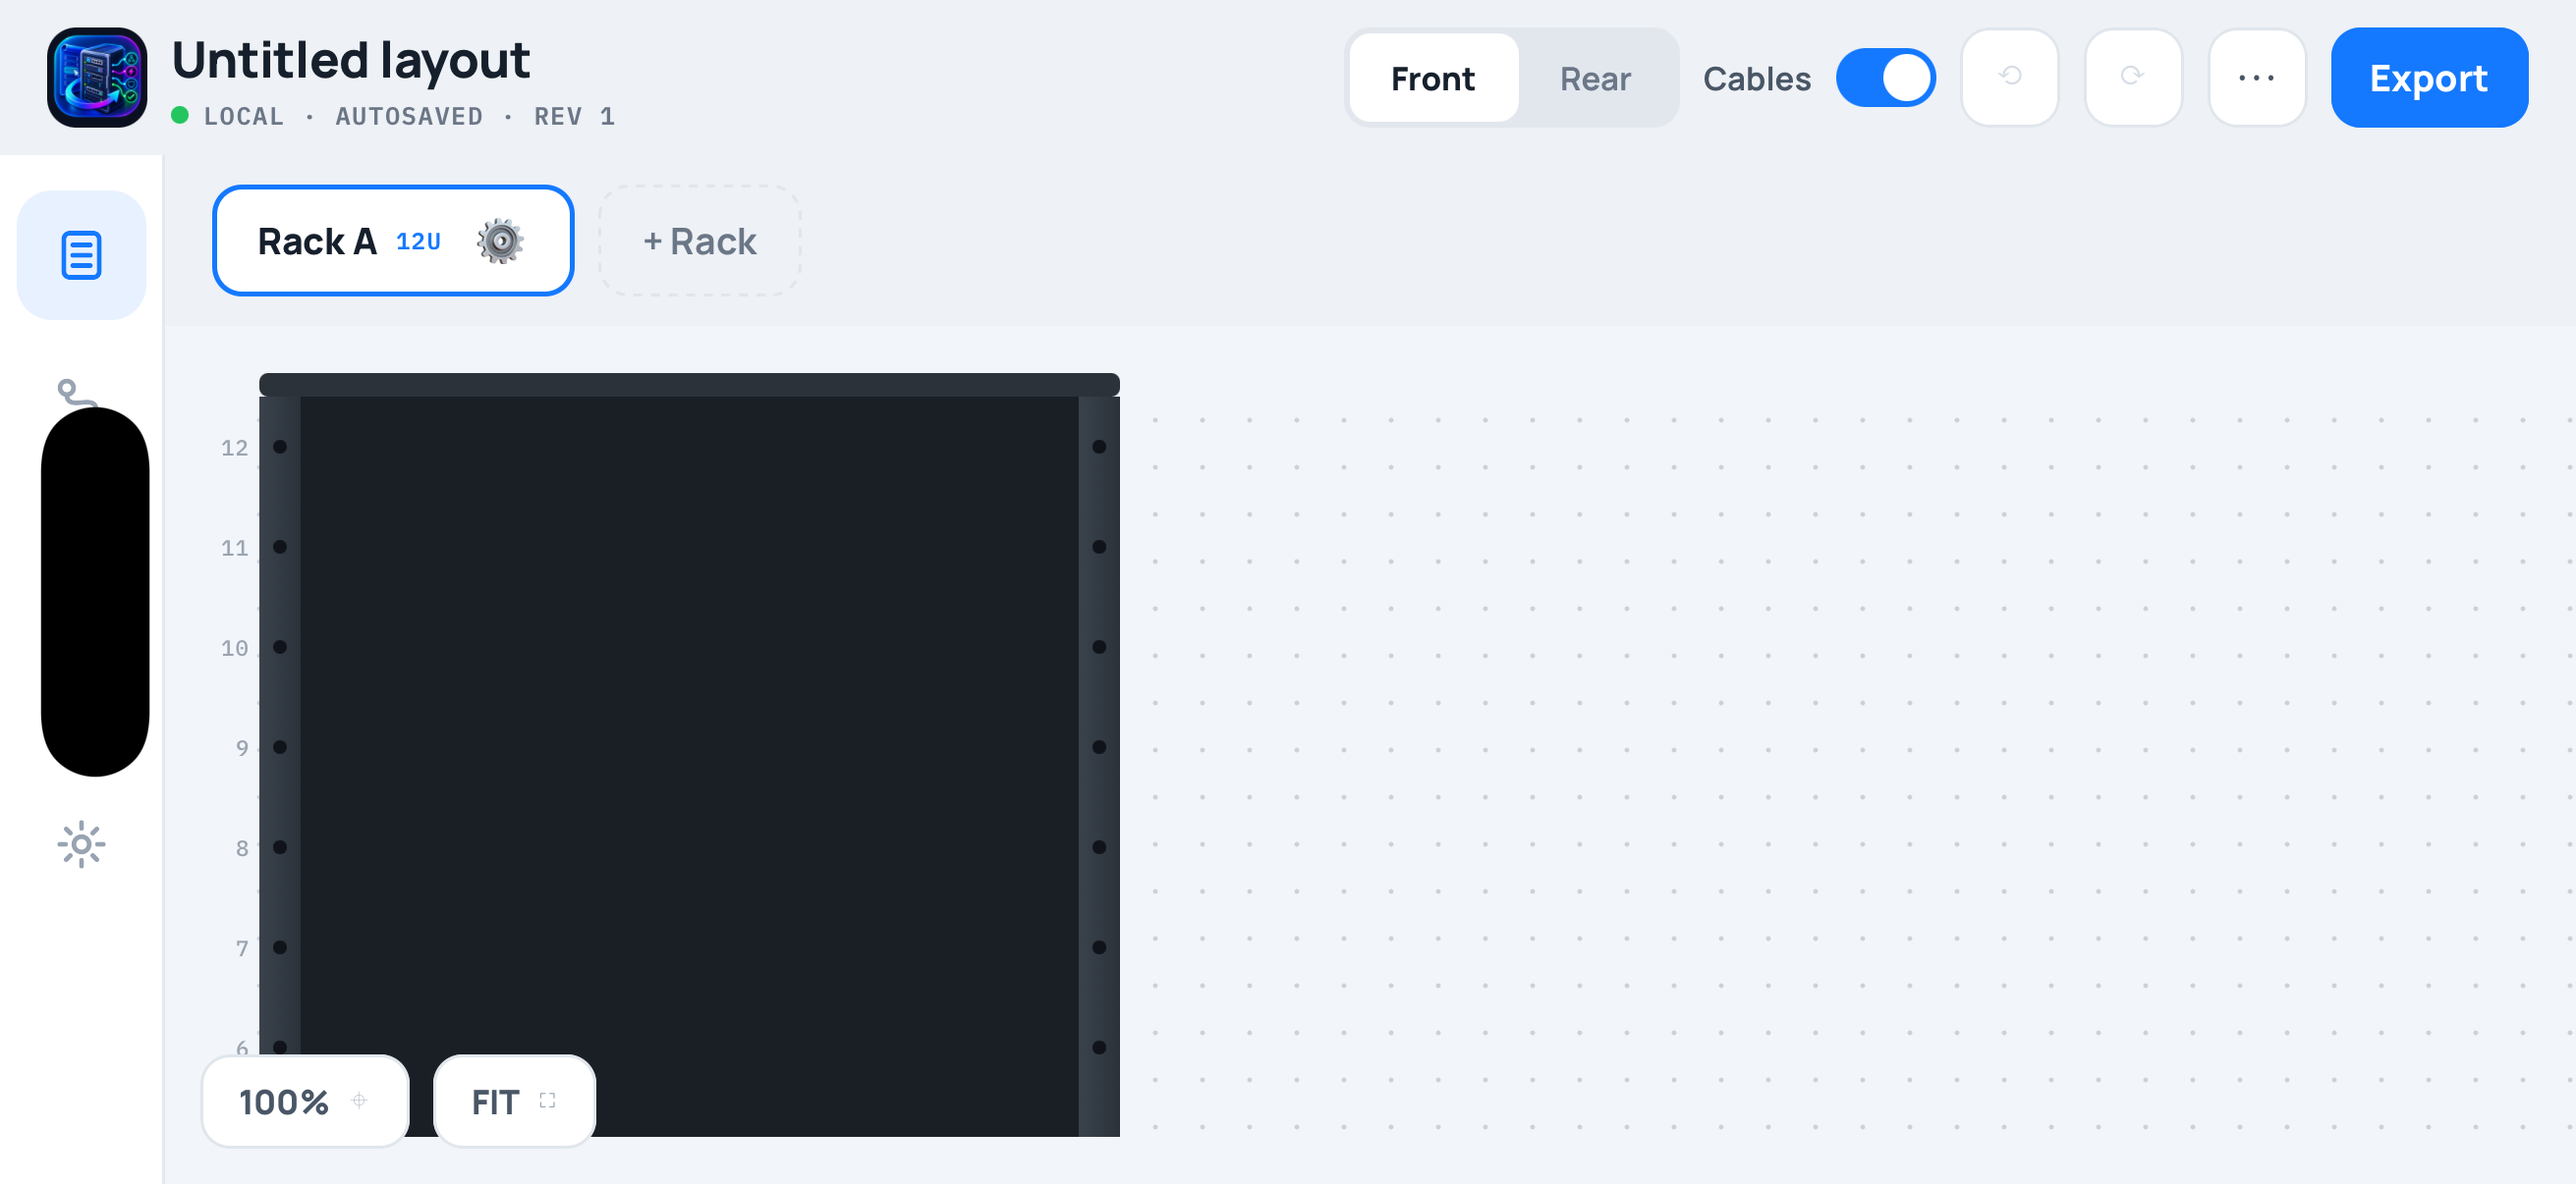
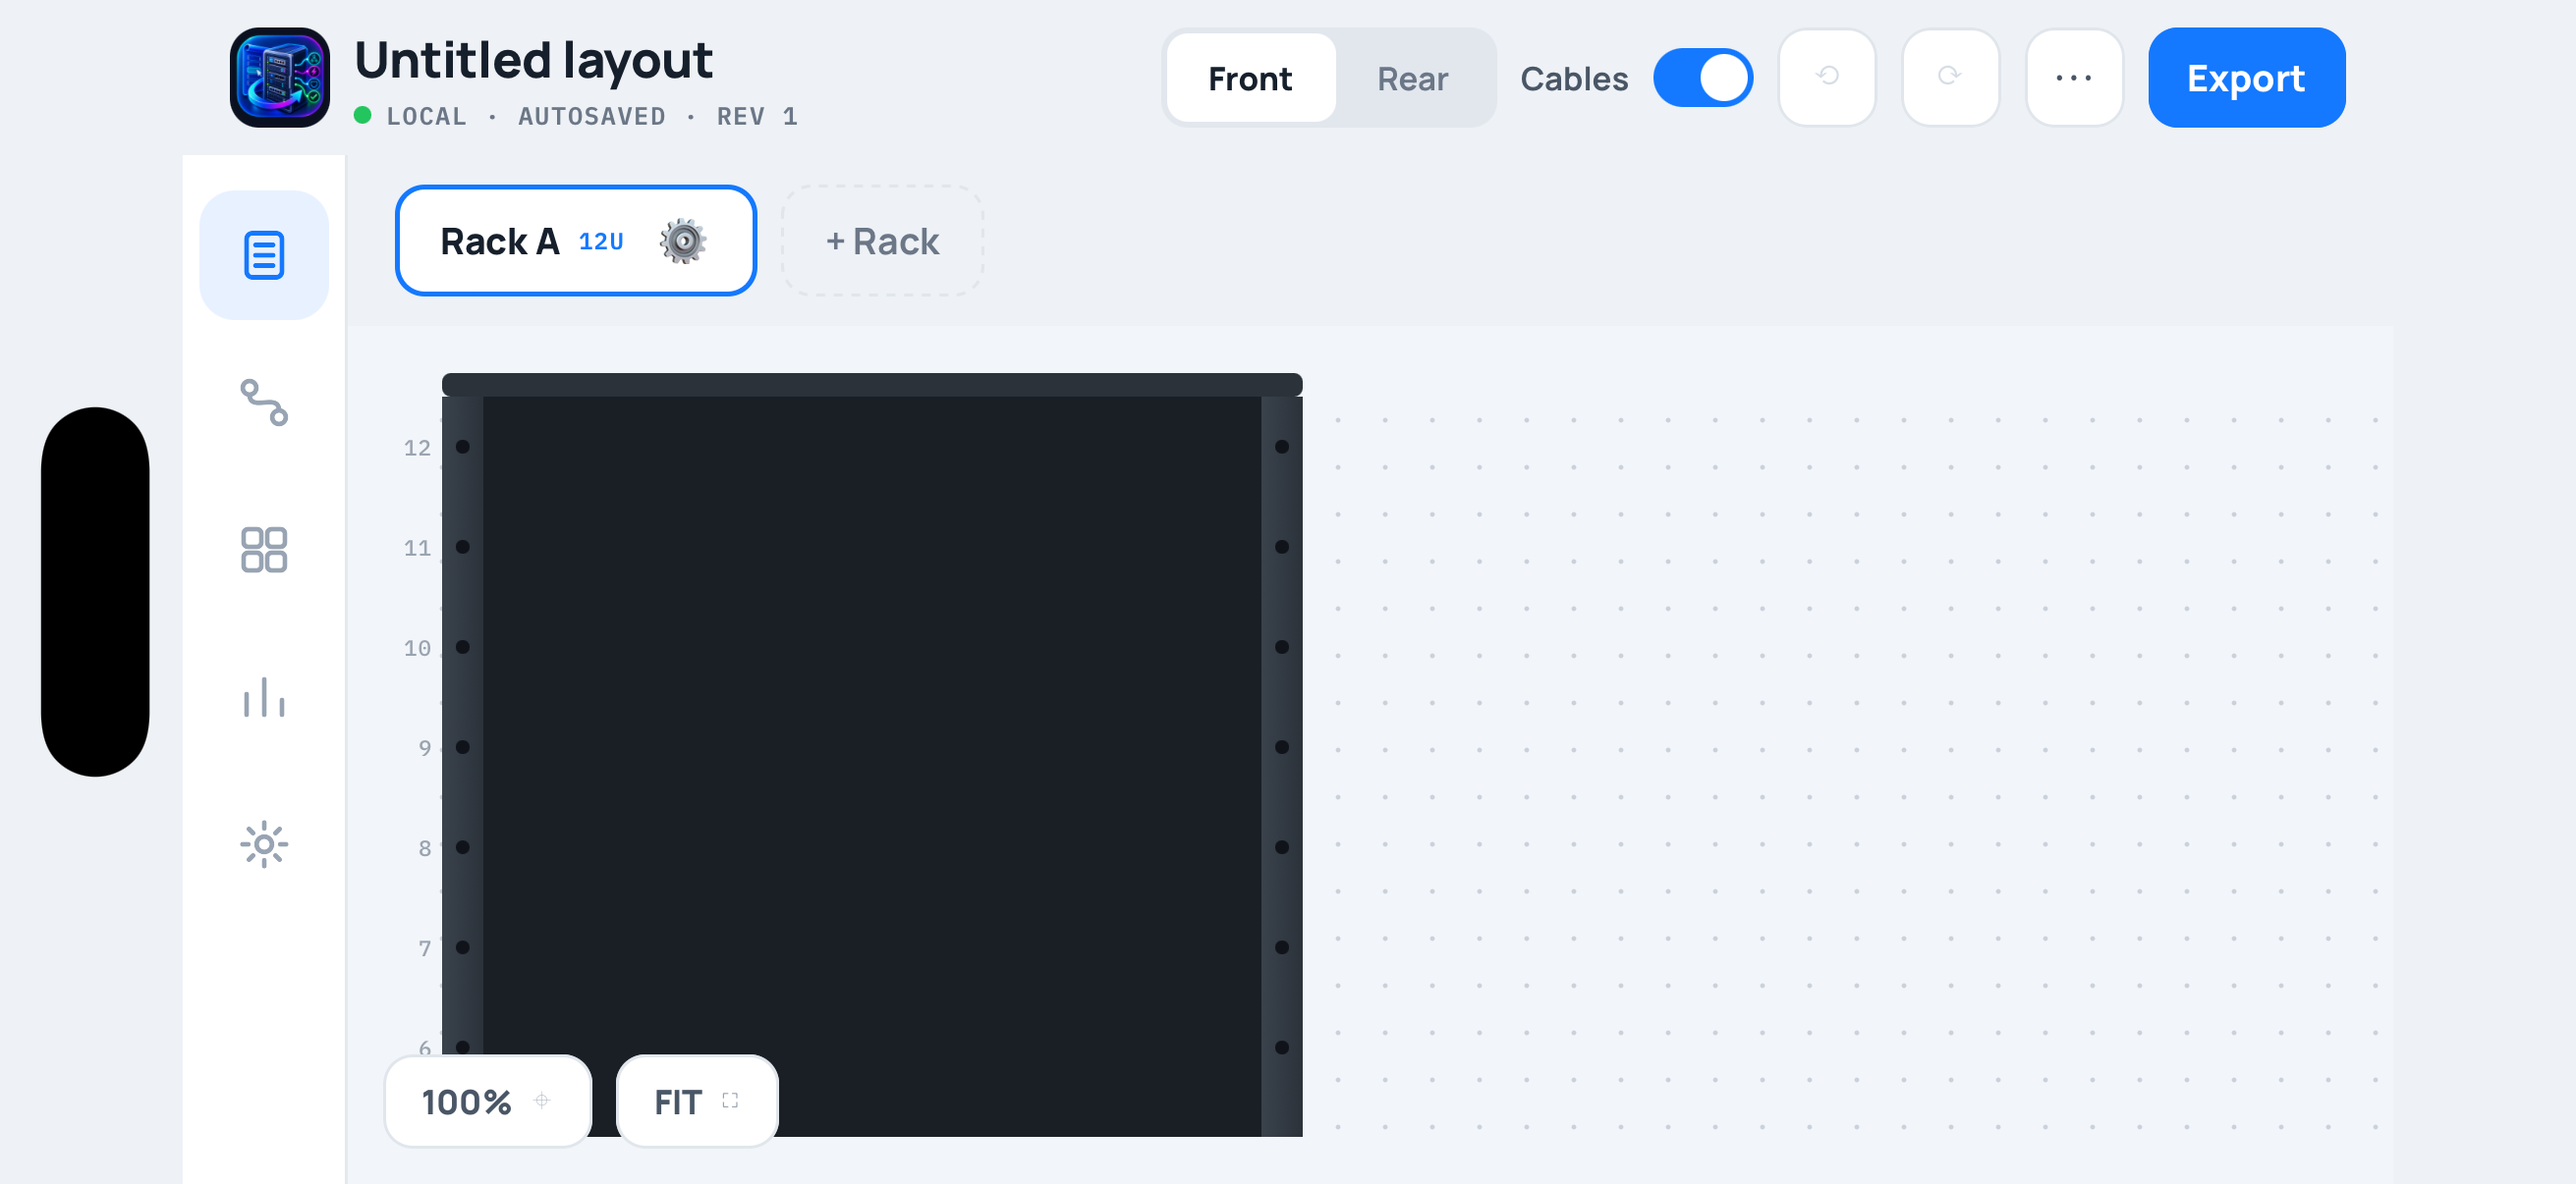
fix: tapping a port terminated the app on iPhone
The app is locked to landscape; a React Native Modal is portrait-only unless it
says otherwise. Opening one therefore killed the process outright:

  UIApplicationInvalidInterfaceOrientation: Supported orientations has no common
  orientation with the application

That is the port picker — the app's central interaction — and the inspector
sheet and the conflict dialog with it. Every modal now declares the orientation
the app actually has, and a test renders all three and checks it.

Found on the iPhone simulator. No amount of browser testing would have: on the
web a Modal is a div.

diff --git a/apps/app/test/modals.test.tsx b/apps/app/test/modals.test.tsx
@@ -1,0 +1,47 @@
+import { render, screen } from '@testing-library/react-native'
+import { Modal, Text } from 'react-native'
+import { addDevice, newDevice, newLayout, newRack } from '@planmyrack/core'
+import { BottomSheet } from '../src/ui/BottomSheet'
+import { ConflictDialog } from '../src/ui/ConflictDialog'
+import { PortPicker } from '../src/ui/PortPicker'
+import type { Layout } from '@planmyrack/core'
+
+const rack = newRack({ id: 'R', units: 12 })
+const seeded: Layout = addDevice(
+  newLayout('modals', [rack]),
+  newDevice({ id: 'd1', rackId: 'R', face: 'front', posU: 0, heightU: 1, type: 'switch' }),
+)
+const device = seeded.devices[0]!
+
+const orientationsOf = (): unknown[][] =>
+  screen.UNSAFE_getAllByType(Modal).map((m) => m.props.supportedOrientations ?? [])
+
+describe('TestModalsDeclareLandscape', () => {
+  it('every modal in the app supports the only orientation the app has', () => {
+    // an iPhone terminated the app the moment a port was tapped:
+    // "UIApplicationInvalidInterfaceOrientation: Supported orientations has no common
+    // orientation with the application". A Modal is portrait-only unless it says otherwise.
+    render(
+      <>
+        <BottomSheet title="Sheet" visible onClose={jest.fn()}>
+          <Text>body</Text>
+        </BottomSheet>
+        <ConflictDialog current={seeded} onReload={jest.fn()} onExportJson={jest.fn()} />
+        <PortPicker
+          layout={seeded}
+          device={device}
+          port={0}
+          kind="network"
+          onConnect={jest.fn()}
+          onClose={jest.fn()}
+        />
+      </>,
+    )
+
+    const found = orientationsOf()
+    expect(found).toHaveLength(3)
+    for (const orientations of found) {
+      expect(orientations).toContain('landscape')
+    }
+  })
+})

diff --git a/apps/app/src/ui/PortPicker.tsx b/apps/app/src/ui/PortPicker.tsx
@@ -3,6 +3,7 @@ import { Modal, Pressable, ScrollView, StyleSheet, Text, View } from 'react-nati
 import { DEVICE_TYPES, portCapacity, portLink, otherEnd } from '@planmyrack/core'
 import { Button, Mono, Segmented } from './primitives'
 import { TOUCH, colour, font, radius } from './theme'
+import { MODAL_ORIENTATIONS } from './modal'
 import type { CableType, Device, Layout, LinkEnd, LinkKind } from '@planmyrack/core'
 
 const CABLE_TYPES: CableType[] = ['cat5e', 'cat6', 'cat6a', 'fibre', 'dac']
@@ -47,7 +48,13 @@ export function PortPicker({
     )
 
   return (
-    <Modal visible transparent animationType="slide" onRequestClose={onClose}>
+    <Modal
+      visible
+      transparent
+      animationType="slide"
+      supportedOrientations={MODAL_ORIENTATIONS}
+      onRequestClose={onClose}
+    >
       <Pressable style={styles.backdrop} onPress={onClose} accessibilityLabel="Close" />
       <View testID="port-picker" style={styles.sheet}>
         <View style={styles.grab} />

diff --git a/apps/app/src/ui/BottomSheet.tsx b/apps/app/src/ui/BottomSheet.tsx
@@ -1,5 +1,6 @@
 import { Modal, Pressable, ScrollView, StyleSheet, Text, View } from 'react-native'
 import { TOUCH, colour, font, radius } from './theme'
+import { MODAL_ORIENTATIONS } from './modal'
 import type { ReactNode } from 'react'
 
 /** Phone-shaped panel: a sheet over the canvas with a grab handle, dismissed by tapping outside. */
@@ -17,7 +18,13 @@ export function BottomSheet({
   children: ReactNode
 }) {
   return (
-    <Modal visible={visible} transparent animationType="slide" onRequestClose={onClose}>
+    <Modal
+      visible={visible}
+      transparent
+      animationType="slide"
+      supportedOrientations={MODAL_ORIENTATIONS}
+      onRequestClose={onClose}
+    >
       <Pressable style={styles.backdrop} onPress={onClose} accessibilityLabel="Close" />
       <View testID="inspector-sheet" style={styles.sheet}>
         <View style={styles.grab} />

diff --git a/apps/app/src/ui/ConflictDialog.tsx b/apps/app/src/ui/ConflictDialog.tsx
@@ -2,6 +2,7 @@ import { Modal, StyleSheet, Text, View } from 'react-native'
 import { STALE_SAVE_MESSAGE } from '@planmyrack/storage'
 import { Button } from './primitives'
 import { colour, font, radius } from './theme'
+import { MODAL_ORIENTATIONS } from './modal'
 import type { Layout } from '@planmyrack/core'
 
 /**
@@ -20,7 +21,7 @@ export function ConflictDialog({
   if (!current) return null
 
   return (
-    <Modal visible transparent animationType="fade">
+    <Modal visible transparent animationType="fade" supportedOrientations={MODAL_ORIENTATIONS}>
       <View style={styles.backdrop}>
         <View testID="conflict-dialog" style={styles.card}>
           <Text style={styles.title}>{STALE_SAVE_MESSAGE}</Text>

diff --git a/apps/app/src/ui/modal.ts b/apps/app/src/ui/modal.ts
@@ -1,0 +1,15 @@
+import type { ModalProps } from 'react-native'
+
+/**
+ * Every Modal in the app must declare these.
+ *
+ * The app is locked to landscape. A Modal defaults to portrait-only, and iOS then throws
+ * `UIApplicationInvalidInterfaceOrientation: Supported orientations has no common orientation
+ * with the application` — the app terminates. Found on an iPhone simulator by tapping a port,
+ * which is the app's central interaction.
+ */
+export const MODAL_ORIENTATIONS: NonNullable<ModalProps['supportedOrientations']> = [
+  'landscape',
+  'landscape-left',
+  'landscape-right',
+]
